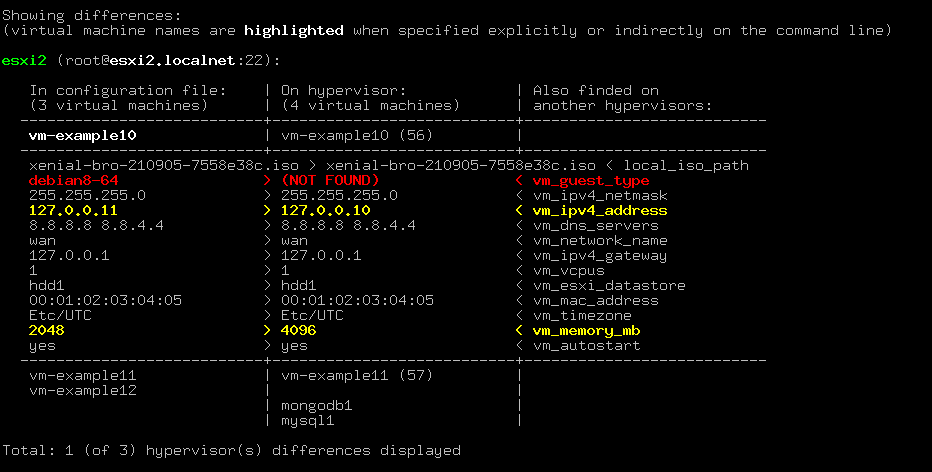
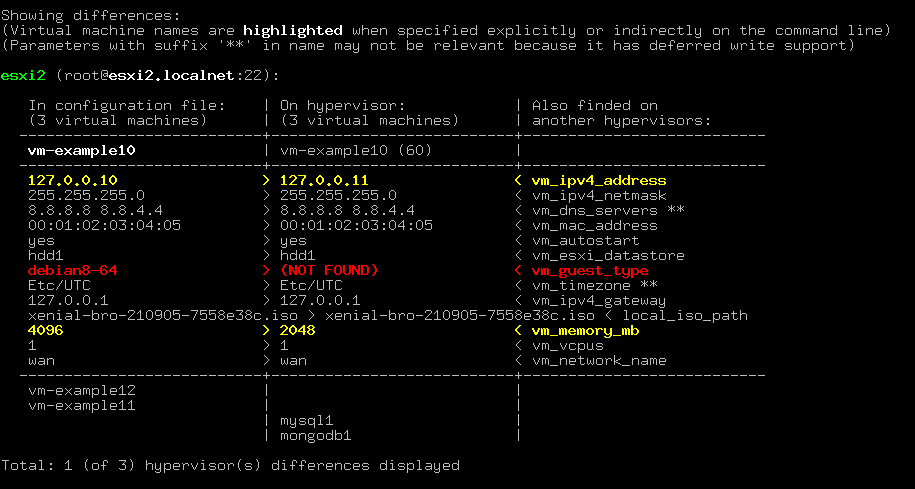
[docs/CONTROL_VM_ESXI.md]: Updated to last version (refs #100)

Changed region(s): [[0.0, 0.0, 0.9792, 0.8602], [0.0918, 0.8305, 0.5202, 0.9788], [0.0, 0.9492, 0.0612, 0.9788]]

diff --git a/docs/CONTROL_VM_ESXI.md b/docs/CONTROL_VM_ESXI.md
@@ -36,9 +36,9 @@
 В скрипте реализована поддержка обработки нескольких виртуальных машин за один проход. А результат их обработки
 отображается в статусе в конце работы скрипта.
 
-Взаимодействие с гипервизорами происходит по `SSH`-протоколу и посредством `API` (через программу `govc`). Взаимодействие
-посредством `API` потребовалось команде `update` для горячей замены `ISO`-образов. В будущем планируется использовать
-только один вид транспорта.
+Взаимодействие с гипервизорами происходит по `SSH`-протоколу и посредством `API` (через программу `govc`).
+Взаимодействие посредством `API` потребовалось команде `update` для горячей замены `ISO`-образов и обновления других
+параметров виртуальных машин. В будущем планируется использовать только один вид транспорта.
 
 ### Использование
 
@@ -272,9 +272,9 @@ $ ./control_vm_esxi.sh update <parameter_name> [options] <vm_name> [<esxi_name>]
 
 Все поддерживаемые опции были рассмотрены в секции по [команде **create**](#команда-create).
 
-На данный момент команда умеет обновлять настройки только для одного параметра - `local_iso_path`. Т.е. умеет
-только заменять `ISO`-образ для виртуальных машин, причем делает это на горячую, т.е. чтобы он стал актуальным,
-необходимо перезагружать виртуальную машину.
+На данный момент команда умеет обновлять значения следующих параметров - `local_iso_path`, `vm_dns_servers`,
+`vm_timezone`. Все параметры обновляются на "горячую", т.е. меняют свои значения сразу же, однако, учитывая характер
+бездисковых станций, обновлённые значения параметров подхватятся только после перезагрузки виртуальных машин.
 
 **!!! Важно**, чтобы базовый слой, на основе которого работает виртуальная машина имел поддержку извлечения
 `ISO`-образа из виртуального CD-ROM через `vmware-tools`. Сейчас скрипт посылает команду `eject` через гипервизор

diff --git a/README.md b/README.md
@@ -30,6 +30,7 @@
 * Поддержка запуска различных вспомогательных скриптов (хуков);
 * Отображение различий настроек в конфигурационном файле и на гипервизорах;
 * Поддержка переключения `ISO`-образа виртуальной машины на лету (для будущей перезагрузки);
+* Поддержка отложенного обновления некоторых параметров виртуальных машин (временная зона, адреса DNS-серверов);
 * Проверка контрольных сумм артефактов базовых слоёв при создании образов, а также контрольных сумм ISO-образов
   при создании виртуальных машин;
 
